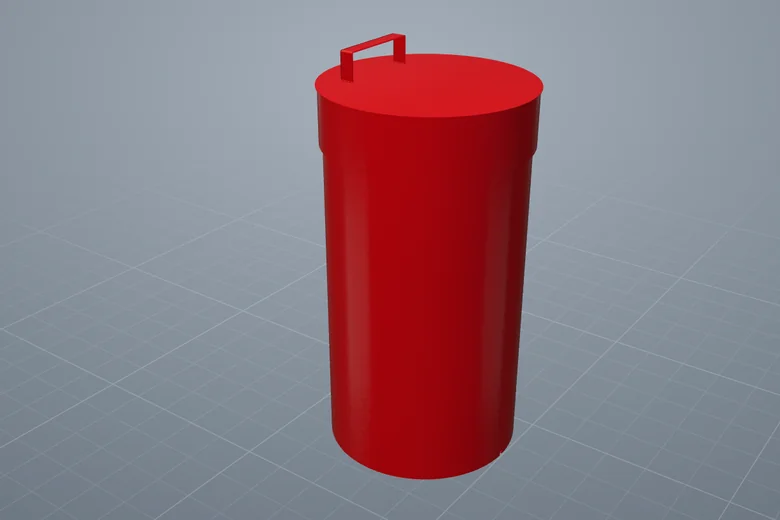
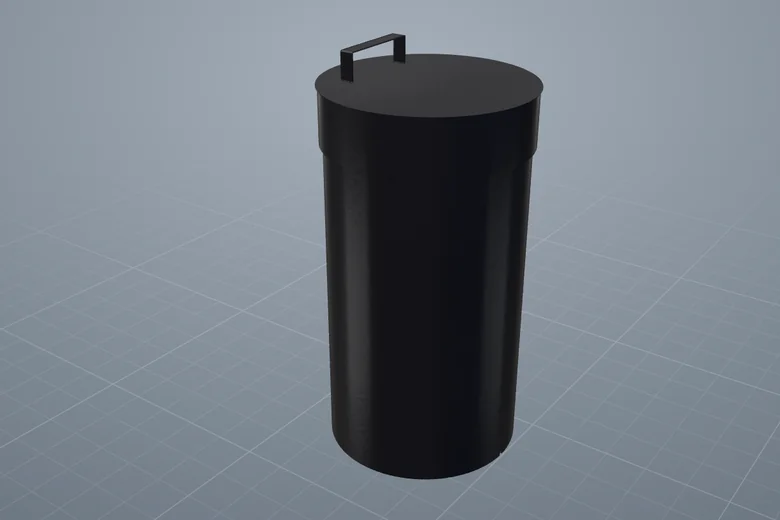
Poubelle DD 154011700 : poubelle et couvercle peints en noir (demande du client), fiche, vignette et README mis à jour
Claude-Session: https://claude.ai/code/session_015N4WstJoyMH2C49utEWFdB

Changed region(s): [[0.4, 0.0615, 0.7077, 0.9231]]

diff --git a/src/models/poubelle-dd/index.js b/src/models/poubelle-dd/index.js
@@ -42,9 +42,9 @@ export const COUVERCLE = {
   soudure: 1 / 16,
 };
 
-// Couleur de surface non précisée aux plans : rouge Machines Roger, comme les
-// autres accessoires soudés.
-const PEINT = 'red';
+// Peinture : poubelle et couvercle en noir (demande du client ; les plans ne
+// donnent pas de couleur de surface).
+const PEINT = 'black';
 const SEG = 96; // facettes sur le tour
 
 /** Marque un cordon de soudure (hors cotes et hors masse dans scripts/check-poubelle-dd.mjs). */

diff --git a/README.md b/README.md
@@ -425,8 +425,8 @@ pièces (numéro, quantité, page du manuel).
   couvercle sur la poubelle : la pose de l'ensemble (P01) est déduite des cotes
   (l'anneau porte sur le bord de la virole, la jupe descend autour avec 3/16 po
   de jeu au rayon). La vue en coupe du site reprend le plan des deux coupes A-A
-  (X = 0). Couleur de surface non précisée aux plans : montrée en rouge Machines
-  Roger. Contrôle chiffré : `node scripts/check-poubelle-dd.mjs` compare 51
+  (X = 0). Poubelle et couvercle peints en noir, à la demande du client (les
+  plans ne précisent pas de couleur de surface). Contrôle chiffré : `node scripts/check-poubelle-dd.mjs` compare 51
   mesures du modèle aux plans, vérifie que les maillages sont fermés et calcule
   les masses : 47,9 lb pour la poubelle et 6,85 lb pour le couvercle, pour
   47,9 lb et 6,9 lb aux cartouches.
